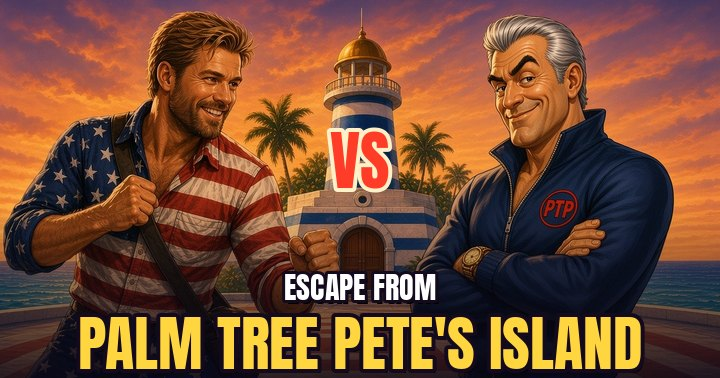
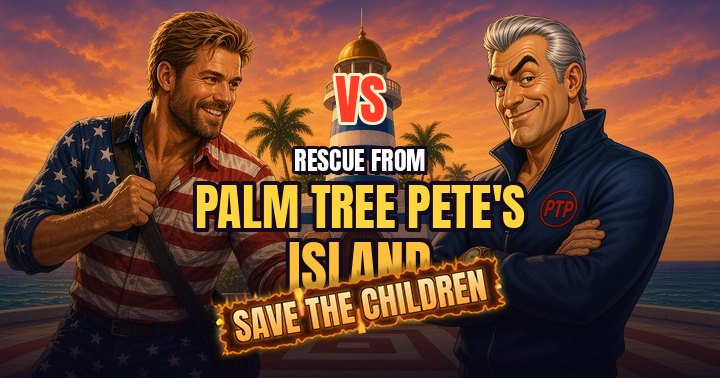
Vault: rename card to Rescue from Palm Tree Pete's Island + new SAVE THE CHILDREN cover; SW v35

diff --git a/sw.js b/sw.js
@@ -1,4 +1,4 @@
-const P='peters-arcade-',V=P+'v34',OLD=[],FILES=['./', 'covers/djs-library-hustle.gif', 'covers/russian-roulette.gif', 'covers/duncans-flight-589.gif', 'covers/jedi-jims-rebel-mission.gif', 'covers/melissas-super-80s-movies-challenge.gif', 'covers/tract-attack.gif', 'covers/kelly-crunch.gif', 'covers/melissaette-bday-c38938.gif', 'covers/jimothys-crossing.gif', 'covers/jims-gift-equalizer.gif', 'index.html', 'manifest.json', 'manifest-full.json', 'icon-192.png', 'icon-512.png', 'cover-anim.gif', 'cover.png', 'cover-720.jpg', 'covers/block-drop.gif', 'covers/cosmic-crash-pinball.gif', 'covers/crazy-course-mini-golf.gif', 'covers/duncans-mess-up-fess-up-flight.gif', 'covers/haunted-midway-pinball.gif', 'covers/hopes-prayer-warrior.gif', 'covers/j-woos-fishing-challenge.gif', 'covers/jims-bible-challenge.gif', 'covers/kittys-chicken-corral.gif', 'covers/lakeside-links-golf.gif', 'covers/letter-traffic.gif', 'covers/lunar-rover-run.gif', 'covers/maze-muncher.gif', 'covers/neon-riff-pinball.gif', 'covers/paper-route-peter.gif', 'covers/pin-palace-bowling.gif', 'covers/quack-attack.gif', 'covers/road-agent.gif', 'covers/suzys-potato-quest.gif', 'covers/tams-heavenly-hair-salon.gif', 'covers/tams-home-health-hustle.gif', 'covers/tams-road-to-emmaus.gif', 'covers/daves-dog-walking-challenge.gif', 'covers/larrys-laser-engraving.gif', 'covers/water-balloon-blast.gif', 'covers/mama-macgregors-slots.gif', 'covers/mama-macgregors-bingo-hall.gif', 'covers/butterfly-net-catch.gif'];
+const P='peters-arcade-',V=P+'v35',OLD=[],FILES=['./', 'covers/djs-library-hustle.gif', 'covers/russian-roulette.gif', 'covers/duncans-flight-589.gif', 'covers/jedi-jims-rebel-mission.gif', 'covers/melissas-super-80s-movies-challenge.gif', 'covers/tract-attack.gif', 'covers/kelly-crunch.gif', 'covers/melissaette-bday-c38938.gif', 'covers/jimothys-crossing.gif', 'covers/jims-gift-equalizer.gif', 'index.html', 'manifest.json', 'manifest-full.json', 'icon-192.png', 'icon-512.png', 'cover-anim.gif', 'cover.png', 'cover-720.jpg', 'covers/block-drop.gif', 'covers/cosmic-crash-pinball.gif', 'covers/crazy-course-mini-golf.gif', 'covers/duncans-mess-up-fess-up-flight.gif', 'covers/haunted-midway-pinball.gif', 'covers/hopes-prayer-warrior.gif', 'covers/j-woos-fishing-challenge.gif', 'covers/jims-bible-challenge.gif', 'covers/kittys-chicken-corral.gif', 'covers/lakeside-links-golf.gif', 'covers/letter-traffic.gif', 'covers/lunar-rover-run.gif', 'covers/maze-muncher.gif', 'covers/neon-riff-pinball.gif', 'covers/paper-route-peter.gif', 'covers/pin-palace-bowling.gif', 'covers/quack-attack.gif', 'covers/road-agent.gif', 'covers/suzys-potato-quest.gif', 'covers/tams-heavenly-hair-salon.gif', 'covers/tams-home-health-hustle.gif', 'covers/tams-road-to-emmaus.gif', 'covers/daves-dog-walking-challenge.gif', 'covers/larrys-laser-engraving.gif', 'covers/water-balloon-blast.gif', 'covers/mama-macgregors-slots.gif', 'covers/mama-macgregors-bingo-hall.gif', 'covers/butterfly-net-catch.gif'];
 self.addEventListener('install',e=>{e.waitUntil(caches.open(V).then(c=>c.addAll(FILES)));self.skipWaiting()});
 self.addEventListener('activate',e=>{e.waitUntil(caches.keys().then(k=>Promise.all(k.filter(n=>n!=V&&(n.startsWith(P)||OLD.some(o=>n.startsWith(o)))).map(n=>caches.delete(n)))).then(()=>self.clients.claim()))});
 self.addEventListener('fetch',e=>{if(e.request.method!='GET')return;e.respondWith(fetch(e.request).then(r=>{if(r.ok){const cp=r.clone();caches.open(V).then(c=>c.put(e.request,cp))}return r}).catch(()=>caches.open(V).then(c=>c.match(e.request,{ignoreSearch:true}).then(r=>r||(e.request.mode=='navigate'?c.match('./'):undefined)))))});

diff --git a/index.html b/index.html
@@ -86,7 +86,7 @@ $('gGo').addEventListener('click',go);pw.addEventListener('keydown',e=>{if(e.key
 <div id="vIn" hidden><h3>🔓 THE VAULT</h3><div id="vGames"></div><p id="vEmpty" hidden>The vault is empty.</p><button id="vClose" class="vbtn" type="button">LOCK &amp; CLOSE</button></div></div></div>
 <script>
 // ===== THE VAULT =====  Add games here (same shape as the main grid). Vault games never show in the main grid.
-const VAULT_GAMES=[{url:'https://ploug76.github.io/peters-pecker-sword-fight/',title:"Peter's Pecker Sword Fight",cover:'covers/vault-party-pack.gif?v=2',desc:'Adults only, 18+. Crude party humor: 8 games. Sword fights, a pool-deck duel, Pecker Sumo, a piñata, ring toss, a pool float joust, pin the pecker and limbo. Passcode on the game too.'},{url:'https://ploug76.github.io/escape-from-palm-tree-petes-island/',title:"Escape from Palm Tree Pete's Island",cover:'covers/escape-from-palm-tree-petes-island.jpg',desc:'Stealth rescue: sneak past flashlights and searchlights as Stars & Stripes, brawl goons in VS fights and lead the kids back to the boat. 3 levels.'}];   // e.g. {url:'https://ploug76.github.io/some-game/',title:'Some Game',cover:'covers/some-game.gif',desc:'...'}
+const VAULT_GAMES=[{url:'https://ploug76.github.io/peters-pecker-sword-fight/',title:"Peter's Pecker Sword Fight",cover:'covers/vault-party-pack.gif?v=2',desc:'Adults only, 18+. Crude party humor: 8 games. Sword fights, a pool-deck duel, Pecker Sumo, a piñata, ring toss, a pool float joust, pin the pecker and limbo. Passcode on the game too.'},{url:'https://ploug76.github.io/escape-from-palm-tree-petes-island/',title:"Rescue from Palm Tree Pete's Island",cover:'covers/escape-from-palm-tree-petes-island.jpg?v=3',desc:'Stealth rescue: sneak past flashlights and searchlights as Stars & Stripes, brawl goons in VS fights and lead the kids back to the boat. 3 levels.'}];   // e.g. {url:'https://ploug76.github.io/some-game/',title:'Some Game',cover:'covers/some-game.gif',desc:'...'}
[1 lines of base64/hex data omitted]
 const norm=u=>String(u||'').replace(/[?#].*$/,'').replace(/\/?$/,'/');const VS=new Set(VAULT_GAMES.map(g=>norm(g.url)));
 document.querySelectorAll('main .card').forEach(c=>{const a=c.querySelector('a.tile');if(a&&VS.has(norm(a.href)))c.remove()});
